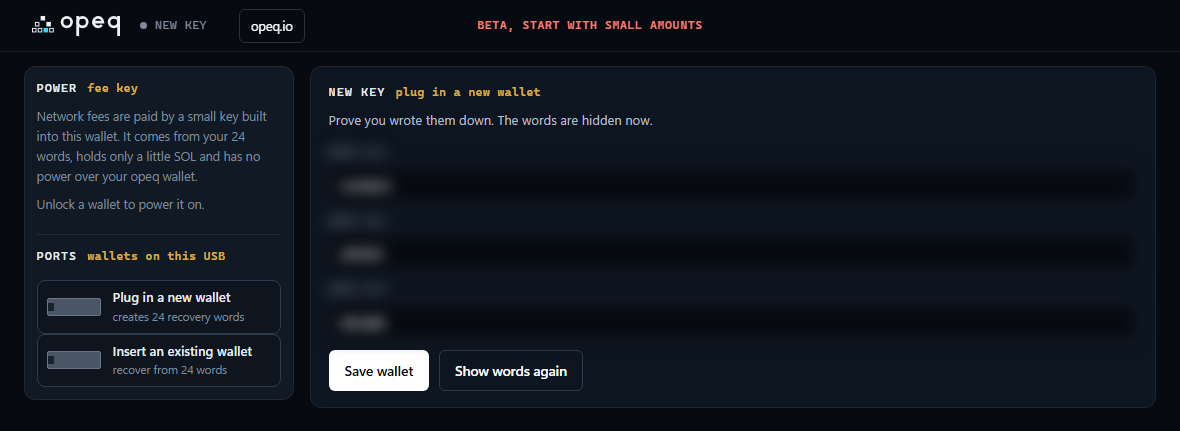
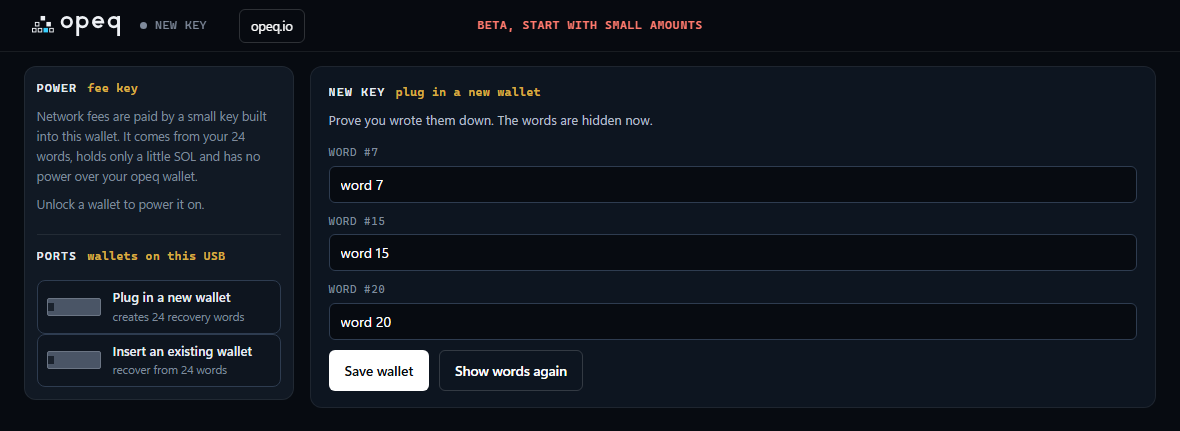
Guide: recovery word screens show placeholder words instead of blurred real ones

diff --git a/web/lab/board/guide.html b/web/lab/board/guide.html
@@ -89,8 +89,8 @@
   <ol class="steps">
     <li><b>Plug in a new wallet.</b> On the start screen, choose to create a new wallet.<figure class="shot"><img src="../../assets/guide-welcome.png" alt="The start screen with Plug in a new wallet and Insert an existing wallet" loading="lazy"></figure></li>
     <li><b>Choose a password</b> of at least 10 characters. It unlocks the wallet on this device only.<figure class="shot"><img src="../../assets/guide-create.png" alt="The password screen" loading="lazy"></figure></li>
-    <li><b>Write the 24 words on paper, in order.</b> They are your only backup. Never take a photo of them and never type them into a website. (They are blurred in this picture.)<figure class="shot"><img src="../../assets/guide-words.png" alt="The 24 recovery words screen, blurred" loading="lazy"></figure></li>
-    <li><b>Confirm three of the words.</b> This makes sure your paper copy is right.<figure class="shot"><img src="../../assets/guide-quiz.png" alt="The word check, blurred" loading="lazy"></figure></li>
+    <li><b>Write the 24 words on paper, in order.</b> They are your only backup. Never take a photo of them and never type them into a website. (This picture shows placeholders, never real words.)<figure class="shot"><img src="../../assets/guide-words.png" alt="The 24 recovery words screen, with placeholder words" loading="lazy"></figure></li>
+    <li><b>Confirm three of the words.</b> This makes sure your paper copy is right.<figure class="shot"><img src="../../assets/guide-quiz.png" alt="The word check, with placeholder words" loading="lazy"></figure></li>
   </ol>
 
   <h2 id="activate">Activate on Solana</h2>
